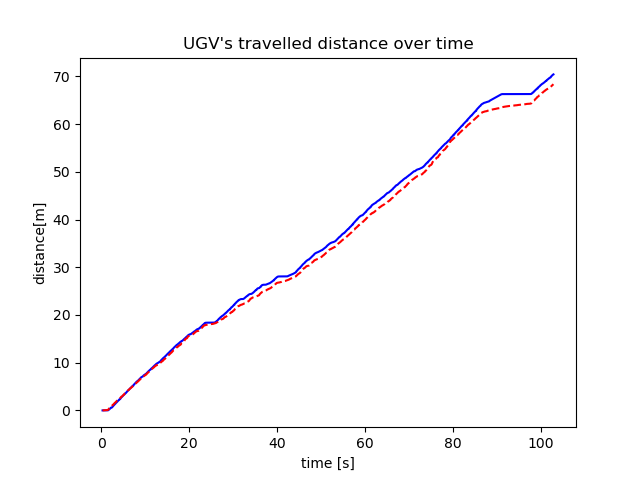
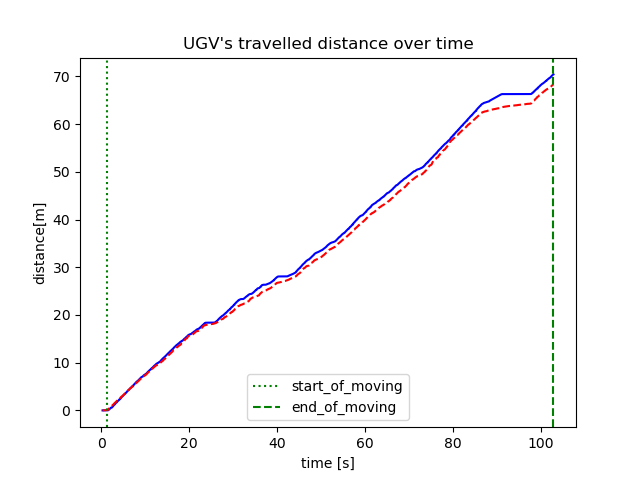
new lines of start and end of moving

Changed region(s): [[0.4375, 0.7812, 0.625, 0.875]]

diff --git a/nodes/tf_reader.py b/nodes/tf_reader.py
@@ -47,23 +47,15 @@ def create_graphs(bag):
                 cloud_combined.append(transformed_vectors)
         except ExtrapolationException:
             continue
-    traj = np.vstack([icp_x, icp_y, icp_z]).T
-    traj -= traj[0]
-
-    cloud_combined = np.asarray(cloud_combined)
-    cloud_combined -= traj[0]
-
     if len(cloud_combined) > 0:
+        start_of_moving, end_of_moving = find_start_and_end_of_moving(icp_x, icp_y, icp_z, saved_times)
         create_graph_xy_and_point_cloud(cloud_combined, icp_x, icp_y, odom_x, odom_y)
-        # create_graph_x_over_time(icp_x, odom_x, saved_times)
-        # create_graph_y_over_time(icp_y, odom_y, saved_times)
-        # create_graph_z_over_time(icp_z, odom_z, saved_times)
-        create_graph_x_over_time(traj[:, 0], odom_x, saved_times)
-        create_graph_y_over_time(traj[:, 1], odom_y, saved_times)
-        create_graph_z_over_time(traj[:, 2], odom_z, saved_times)
-        create_graph_distance_over_time(icp_x, icp_y, icp_z, odom_x, odom_y, odom_z, saved_times)
-        find_start_and_end_of_moving(icp_x, icp_y, icp_z, saved_times)
-        write_info_to_file(get_distances(icp_x, icp_y, icp_z), get_distances(odom_x, odom_y, odom_z), saved_times)
+        create_graph_x_over_time(icp_x, odom_x, saved_times)
+        create_graph_y_over_time(icp_y, odom_y, saved_times)
+        create_graph_z_over_time(icp_z, odom_z, saved_times)
+        create_graph_distance_over_time(icp_x, icp_y, icp_z, odom_x, odom_y, odom_z, saved_times, start_of_moving,
+                                        end_of_moving)
+        write_info_to_file(get_distances(icp_x, icp_y, icp_z), saved_times, start_of_moving, end_of_moving)
         
 
 def slots(msg):
@@ -140,7 +132,8 @@ def create_graph_z_over_time(icp_z, imu_z, saved_times):
     plt.close()
 
 
-def create_graph_distance_over_time(icp_x, icp_y, icp_z, imu_x, imu_y, imu_z, saved_times):
+def create_graph_distance_over_time(icp_x, icp_y, icp_z, imu_x, imu_y, imu_z, saved_times, start_of_moving,
+                                    end_of_moving):
     output_path = "/home/robert/catkin_ws/src/bag_crawler/nodes/web_server/distance_and_time.png"
     fig, ax = plt.subplots()
     plt.xlabel('time [s]')
@@ -148,6 +141,9 @@ def create_graph_distance_over_time(icp_x, icp_y, icp_z, imu_x, imu_y, imu_z, sa
     plt.title("UGV's travelled distance over time")
     ax.plot(saved_times, get_distances(imu_x, imu_y, imu_z), color='blue')
     ax.plot(saved_times, get_distances(icp_x, icp_y, icp_z), color='red', linestyle='--')
+    ax.axvline(start_of_moving, color='green', linestyle=':', label='start_of_moving')
+    ax.axvline(end_of_moving, color='green', linestyle='--', label='end_of_moving')
+    plt.legend()
     plt.savefig(output_path)
     plt.close()
 
@@ -181,12 +177,11 @@ def get_distances(coord_x, coord_y, coord_z):
     return distances
 
 
-def write_info_to_file(distances_icp, distances_imu, saved_times):
+def write_info_to_file(distances_icp, saved_times, start_of_moving, end_of_moving):
     output_path = "/home/robert/catkin_ws/src/bag_crawler/nodes/web_server/bag_info.txt"
-    average_speed_icp = distances_icp[-1] / saved_times[-1] #Указать это. Сделать второй способ.
-
+    average_speed_icp = distances_icp[-1] / saved_times[-1]
     with open(output_path, "w", encoding="utf-8") as file:
-        file.write(f"{distances_icp[-1]}\n{average_speed_icp}\n")
+        file.write(f"{distances_icp[-1]}\n{average_speed_icp}\n{start_of_moving}\n{end_of_moving}\n")
 
 
 def find_start_and_end_of_moving(coord_x, coord_y, coord_z, saved_times):
@@ -203,11 +198,12 @@ def find_start_and_end_of_moving(coord_x, coord_y, coord_z, saved_times):
     speeds_z = distances_one_period_z / times_one_period
     speeds = []
     start_of_moving = -1
+    end_of_moving = -1
     for i in range(len(speeds_x)):
         speeds.append(sqrt(pow(speeds_x[i], 2) + pow(speeds_y[i], 2) + pow(speeds_z[i], 2)))
         if speeds[i] > 0.1 and start_of_moving == -1:
             start_of_moving = saved_times[i]
         elif speeds[i] < 0.1 or (i == len(speeds_x) - 1 and speeds[i] > 0.1):
             end_of_moving = saved_times[i]
-    print(start_of_moving, end_of_moving)
     return start_of_moving, end_of_moving
+

diff --git a/nodes/bag_info_reader.py b/nodes/bag_info_reader.py
@@ -9,7 +9,6 @@ def save_bag_info(bag):
         file.seek(0, 2)
         file.write(f"{get_date(info_dict['start'])}\n{get_date(info_dict['end'])}\n{info_dict['duration']}\n"
                    f"{round((info_dict['size']/pow(10, 9)), 2)}\n{info_dict['messages']}\n")
-        print(info_dict)
 
 
 def get_date(seconds):
